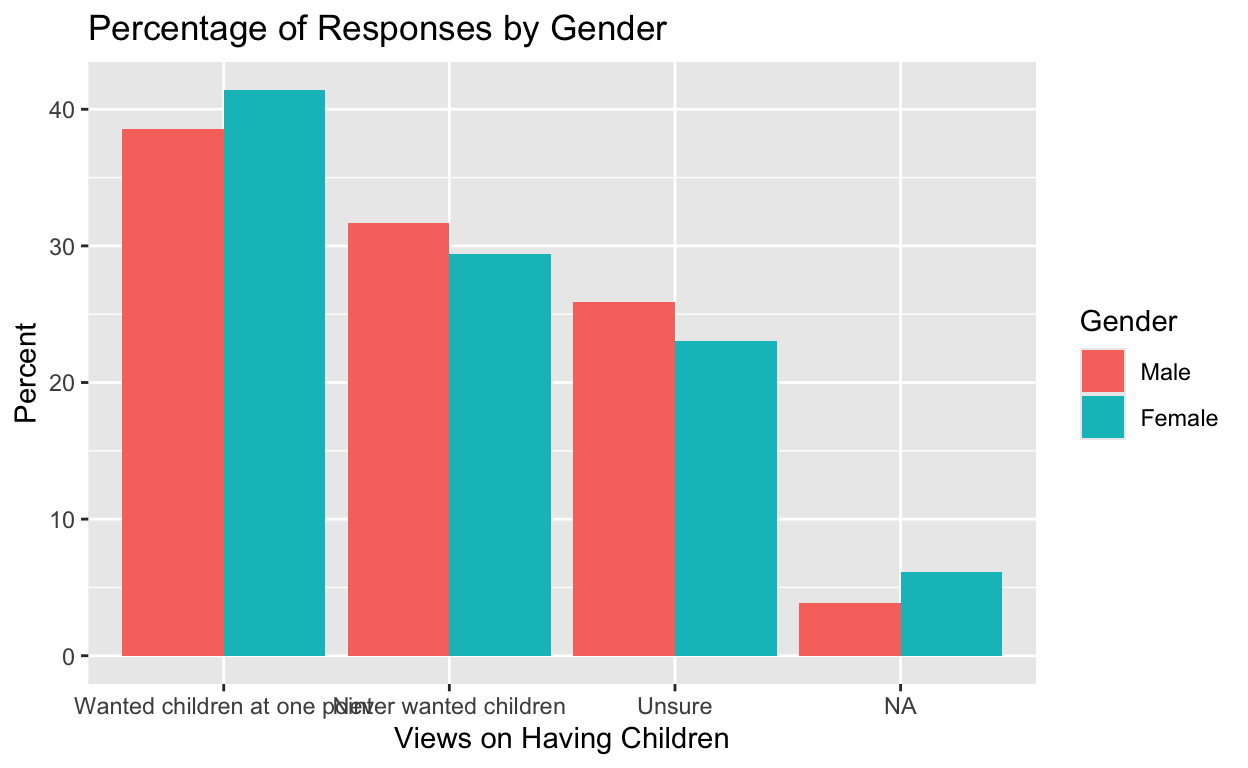
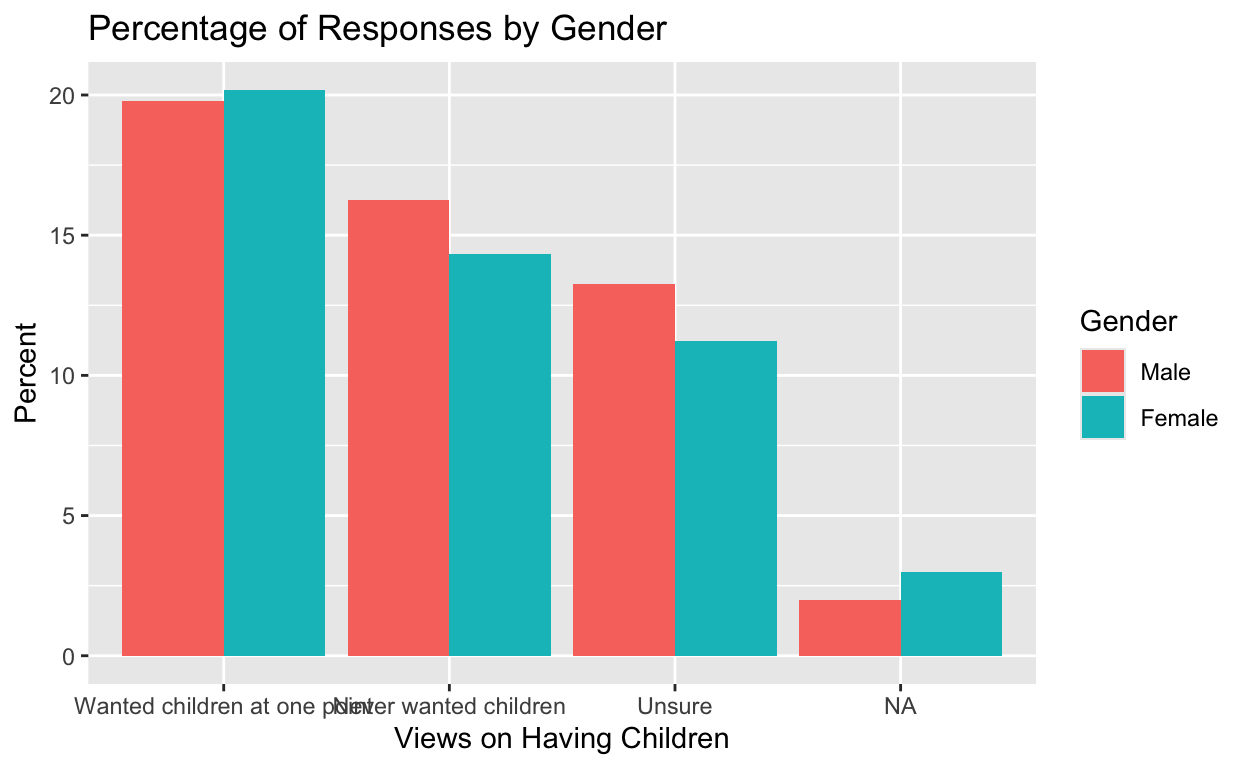
fixed

diff --git a/index.html b/index.html
@@ -1544,14 +1544,16 @@ code span.wa { color: #5e5e5e; font-style: italic; } /* Warning */
 </div>
 
 <div class="d-article">
-<h2 id="project-thoughts">Project thoughts</h2>
+<h2 id="introduction">Introduction</h2>
 <p>I am interested in exploring data related to childcare.</p>
-<h2 id="tentative-research-question">Tentative research question</h2>
 <p>My research question is: How does gender relate to U.S. adults’ intentions or feelings about having children among those who have never been parents? I want to find out if women and men differ in how they describe their thoughts about having children. My hypothesis is that women are more likely than men to say that they “never wanted to have children” or “weren’t sure” compared to men, reflecting social and behavioral patterns in intention of raising kids. The key independent variable is F_GENDER, which indicates whether the respondent self-reported as a woman, a man, in some other way, or refused to answer. The dependent variable is the survey question (KIDSEVER_W147): “Which of the following best describes your thoughts on having children?” with response options: “There was a time when you wanted to have children,” “You never wanted to have children,” “You weren’t sure whether or not you wanted to have children,” and “Refused.” My hypothesis would be supported if the responses differ significantly by gender, specifically if women were more likely to respond with “You never wanted to have children” and “You weren’t sure whether or not you wanted to have children.” The hypothesis would be disproved if there is no difference by gender, or if men are more likely than women to report they never wanted children or were unsure.</p>
 <h2 id="data">Data</h2>
+<p>This analysis uses data from the Pew Research Center American Trends Panel Wave 147, which surveys U.S. adults who have never had children. The data are cross-sectional, meaning they were collected at one point in time rather than over a longer period. The main independent variable is gender, measured using the variable <code>F_GENDER</code>, which I recoded to include only male and female respondents. The dependent variable comes from the question “Which of the following best describes your thoughts on having children?” (<code>KIDSEVER_W147</code>). The responses include whether someone once wanted children, never wanted children, or was unsure. I cleaned the data by removing missing and refused responses and recoding the variables into more readable categories. I would expect to see support for my hypothesis if women are more likely than men to say they never wanted children or that they are unsure. If there is little difference between men and women, or if men are more likely to give those responses, then the hypothesis would not be supported.</p>
 <div class="layout-chunk" data-layout="l-body">
 <div class="sourceCode">
 <pre class="sourceCode r"><code class="sourceCode r"><span><span class='kw'><a href='https://rdrr.io/r/base/library.html'>library</a></span><span class='op'>(</span><span class='va'><a href='https://tidyverse.tidyverse.org'>tidyverse</a></span><span class='op'>)</span></span>
+<span><span class='kw'><a href='https://rdrr.io/r/base/library.html'>library</a></span><span class='op'>(</span><span class='va'><a href='https://yihui.org/knitr/'>knitr</a></span><span class='op'>)</span></span>
+<span><span class='kw'><a href='https://rdrr.io/r/base/library.html'>library</a></span><span class='op'>(</span><span class='va'><a href='https://broom.tidymodels.org/'>broom</a></span><span class='op'>)</span></span>
 <span></span>
 <span><span class='va'>panel_data</span> <span class='op'>&lt;-</span> <span class='fu'><a href='https://readr.tidyverse.org/reference/read_delim.html'>read_csv</a></span><span class='op'>(</span><span class='st'>"ATP W147.csv"</span><span class='op'>)</span></span>
 <span><span class='fu'><a href='https://rdrr.io/r/utils/head.html'>head</a></span><span class='op'>(</span><span class='va'>panel_data</span><span class='op'>)</span></span></code></pre>
@@ -1608,22 +1610,70 @@ code span.wa { color: #5e5e5e; font-style: italic; } /* Warning */
 <div class="sourceCode">
 <pre class="sourceCode r"><code class="sourceCode r"><span><span class='va'>summary_table</span> <span class='op'>&lt;-</span> <span class='va'>clean_data</span> <span class='op'>|&gt;</span></span>
 <span>  <span class='fu'><a href='https://dplyr.tidyverse.org/reference/group_by.html'>group_by</a></span><span class='op'>(</span><span class='va'>gender</span>, <span class='va'>child_views</span><span class='op'>)</span> <span class='op'>|&gt;</span></span>
-<span>  <span class='fu'><a href='https://dplyr.tidyverse.org/reference/summarise.html'>summarize</a></span><span class='op'>(</span>n <span class='op'>=</span> <span class='fu'><a href='https://dplyr.tidyverse.org/reference/context.html'>n</a></span><span class='op'>(</span><span class='op'>)</span><span class='op'>)</span> <span class='op'>|&gt;</span></span>
+<span>  <span class='fu'><a href='https://dplyr.tidyverse.org/reference/summarise.html'>summarize</a></span><span class='op'>(</span>n <span class='op'>=</span> <span class='fu'><a href='https://dplyr.tidyverse.org/reference/context.html'>n</a></span><span class='op'>(</span><span class='op'>)</span>, .groups <span class='op'>=</span> <span class='st'>"drop"</span><span class='op'>)</span> <span class='op'>|&gt;</span></span>
 <span>  <span class='fu'><a href='https://dplyr.tidyverse.org/reference/mutate.html'>mutate</a></span><span class='op'>(</span>percent <span class='op'>=</span> <span class='va'>n</span> <span class='op'>/</span> <span class='fu'><a href='https://rdrr.io/r/base/sum.html'>sum</a></span><span class='op'>(</span><span class='va'>n</span><span class='op'>)</span> <span class='op'>*</span> <span class='fl'>100</span><span class='op'>)</span> </span>
-<span><span class='va'>summary_table</span></span></code></pre>
+<span><span class='fu'><a href='https://rdrr.io/pkg/knitr/man/kable.html'>kable</a></span><span class='op'>(</span><span class='va'>summary_table</span>, digits <span class='op'>=</span> <span class='fl'>2</span><span class='op'>)</span></span></code></pre>
 </div>
-<pre><code># A tibble: 8 × 4
-# Groups:   gender [2]
-  gender child_views                      n percent
-  &lt;fct&gt;  &lt;fct&gt;                        &lt;int&gt;   &lt;dbl&gt;
-1 Male   Wanted children at one point   498   38.6 
-2 Male   Never wanted children          409   31.7 
-3 Male   Unsure                         334   25.9 
-4 Male   &lt;NA&gt;                            50    3.87
-5 Female Wanted children at one point   508   41.4 
-6 Female Never wanted children          361   29.4 
-7 Female Unsure                         283   23.1 
-8 Female &lt;NA&gt;                            75    6.11</code></pre>
+<table>
+<thead>
+<tr class="header">
+<th style="text-align: left;">gender</th>
+<th style="text-align: left;">child_views</th>
+<th style="text-align: right;">n</th>
+<th style="text-align: right;">percent</th>
+</tr>
+</thead>
+<tbody>
+<tr class="odd">
+<td style="text-align: left;">Male</td>
+<td style="text-align: left;">Wanted children at one point</td>
+<td style="text-align: right;">498</td>
+<td style="text-align: right;">19.78</td>
+</tr>
+<tr class="even">
+<td style="text-align: left;">Male</td>
+<td style="text-align: left;">Never wanted children</td>
+<td style="text-align: right;">409</td>
+<td style="text-align: right;">16.24</td>
+</tr>
+<tr class="odd">
+<td style="text-align: left;">Male</td>
+<td style="text-align: left;">Unsure</td>
+<td style="text-align: right;">334</td>
+<td style="text-align: right;">13.26</td>
+</tr>
+<tr class="even">
+<td style="text-align: left;">Male</td>
+<td style="text-align: left;">NA</td>
+<td style="text-align: right;">50</td>
+<td style="text-align: right;">1.99</td>
+</tr>
+<tr class="odd">
+<td style="text-align: left;">Female</td>
+<td style="text-align: left;">Wanted children at one point</td>
+<td style="text-align: right;">508</td>
+<td style="text-align: right;">20.17</td>
+</tr>
+<tr class="even">
+<td style="text-align: left;">Female</td>
+<td style="text-align: left;">Never wanted children</td>
+<td style="text-align: right;">361</td>
+<td style="text-align: right;">14.34</td>
+</tr>
+<tr class="odd">
+<td style="text-align: left;">Female</td>
+<td style="text-align: left;">Unsure</td>
+<td style="text-align: right;">283</td>
+<td style="text-align: right;">11.24</td>
+</tr>
+<tr class="even">
+<td style="text-align: left;">Female</td>
+<td style="text-align: left;">NA</td>
+<td style="text-align: right;">75</td>
+<td style="text-align: right;">2.98</td>
+</tr>
+</tbody>
+</table>
 </div>
 <div class="layout-chunk" data-layout="l-body">
 <div class="sourceCode">
@@ -1638,7 +1688,73 @@ code span.wa { color: #5e5e5e; font-style: italic; } /* Warning */
 </div>
 <p><img src="index_files/figure-html5/unnamed-chunk-3-1.png" alt="" width="624" /></p>
 </div>
+<h2 id="results">Results</h2>
 <p>This analysis compares how men and women differ in their responses to the question about having children. The results show that women are slightly more likely than men to say that they wanted children at one point, while men are somewhat more likely to report that they never wanted children or were unsure. However, the differences between the groups are relatively small. Overall, this suggests that gender is associated with attitudes toward having children, but the relationship is not particularly strong. These findings provide limited support for my hypothesis that gender influences how people think about having children.</p>
+<div class="layout-chunk" data-layout="l-body">
+<div class="sourceCode">
+<pre class="sourceCode r"><code class="sourceCode r"><span><span class='va'>clean_data</span> <span class='op'>&lt;-</span> <span class='va'>clean_data</span> <span class='op'>|&gt;</span></span>
+<span>  <span class='fu'><a href='https://dplyr.tidyverse.org/reference/mutate.html'>mutate</a></span><span class='op'>(</span></span>
+<span>    no_kids_binary <span class='op'>=</span> <span class='fu'><a href='https://rdrr.io/r/base/ifelse.html'>ifelse</a></span><span class='op'>(</span></span>
+<span>      <span class='va'>child_views</span> <span class='op'><a href='https://rdrr.io/r/base/match.html'>%in%</a></span> <span class='fu'><a href='https://rdrr.io/r/base/c.html'>c</a></span><span class='op'>(</span><span class='st'>"Never wanted children"</span>, <span class='st'>"Unsure"</span><span class='op'>)</span>,</span>
+<span>      <span class='fl'>1</span>,</span>
+<span>      <span class='fl'>0</span></span>
+<span>    <span class='op'>)</span></span>
+<span>  <span class='op'>)</span></span>
+<span><span class='va'>model_binary</span> <span class='op'>&lt;-</span> <span class='fu'><a href='https://rdrr.io/r/stats/lm.html'>lm</a></span><span class='op'>(</span><span class='va'>no_kids_binary</span> <span class='op'>~</span> <span class='va'>gender</span>, data <span class='op'>=</span> <span class='va'>clean_data</span><span class='op'>)</span></span>
+<span><span class='fu'><a href='https://rdrr.io/pkg/knitr/man/kable.html'>kable</a></span><span class='op'>(</span><span class='fu'><a href='https://generics.r-lib.org/reference/tidy.html'>tidy</a></span><span class='op'>(</span><span class='va'>model_binary</span><span class='op'>)</span>, digits <span class='op'>=</span> <span class='fl'>3</span><span class='op'>)</span></span></code></pre>
+</div>
+<table>
+<thead>
+<tr class="header">
+<th style="text-align: left;">term</th>
+<th style="text-align: right;">estimate</th>
+<th style="text-align: right;">std.error</th>
+<th style="text-align: right;">statistic</th>
+<th style="text-align: right;">p.value</th>
+</tr>
+</thead>
+<tbody>
+<tr class="odd">
+<td style="text-align: left;">(Intercept)</td>
+<td style="text-align: right;">0.576</td>
+<td style="text-align: right;">0.014</td>
+<td style="text-align: right;">41.611</td>
+<td style="text-align: right;">0.000</td>
+</tr>
+<tr class="even">
+<td style="text-align: left;">genderFemale</td>
+<td style="text-align: right;">-0.051</td>
+<td style="text-align: right;">0.020</td>
+<td style="text-align: right;">-2.557</td>
+<td style="text-align: right;">0.011</td>
+</tr>
+</tbody>
+</table>
+<div class="sourceCode">
+<pre class="sourceCode r"><code class="sourceCode r"><span><span class='fu'><a href='https://ggplot2.tidyverse.org/reference/theme.html'>theme</a></span><span class='op'>(</span>axis.text.x <span class='op'>=</span> <span class='fu'><a href='https://ggplot2.tidyverse.org/reference/element.html'>element_text</a></span><span class='op'>(</span>angle <span class='op'>=</span> <span class='fl'>45</span>, hjust <span class='op'>=</span> <span class='fl'>1</span><span class='op'>)</span><span class='op'>)</span></span></code></pre>
+</div>
+<pre><code>&lt;theme&gt; List of 1
+ $ axis.text.x: &lt;ggplot2::element_text&gt;
+  ..@ family       : NULL
+  ..@ face         : NULL
+  ..@ italic       : chr NA
+  ..@ fontweight   : num NA
+  ..@ fontwidth    : num NA
+  ..@ colour       : NULL
+  ..@ size         : NULL
+  ..@ hjust        : num 1
+  ..@ vjust        : NULL
+  ..@ angle        : num 45
+  ..@ lineheight   : NULL
+  ..@ margin       : NULL
+  ..@ debug        : NULL
+  ..@ inherit.blank: logi FALSE
+ @ complete: logi FALSE
+ @ validate: logi TRUE</code></pre>
+</div>
+<p>To better analyze this relationship, I created a binary outcome variable that groups respondents who said they “never wanted children” or were “unsure” into one category, and those who said they “wanted children at one point” into another. The regression results show that gender is statistically significant in predicting attitudes about having children. The coefficient on gender is -0.051, which means that women are about 5.1 percentage points less likely than men to report that they never wanted children or were unsure. Therefore, men are slightly more likely than women to report that they never wanted children or were unsure. While this difference is statistically significant, the overall size of the effect is relatively small. Because the data are cross-sectional, this relationship should not be interpreted as causal, and other factors may help explain the difference. Interestingly, the results go against my initial null hypothesis, as men are actually more likely than women to report that they never wanted children or are unsure.</p>
+<h2 id="conclusion">Conclusion</h2>
+<p>Overall, the results show that there are some small differences between men and women in how they think about having children, but the relationship is not very strong. Women are slightly more likely to say they once wanted children, while men are a bit more likely to say they never wanted children or are unsure. This provides only limited support for my hypothesis. There are a few limitations to this analysis. Because the data are cross-sectional, it is not possible to make causal claims. There may also be other factors, like socioeconomic status or relationship status, that affect both gender and attitudes toward having children. In addition, missing or refused responses could affect the results. If I had more time, I would try to include more variables in the analysis and explore how other factors might interact with gender.</p>
 <div class="sourceCode" id="cb3"><pre class="sourceCode r distill-force-highlighting-css"><code class="sourceCode r"></code></pre></div>
 <!--radix_placeholder_article_footer-->
 <!--/radix_placeholder_article_footer-->
